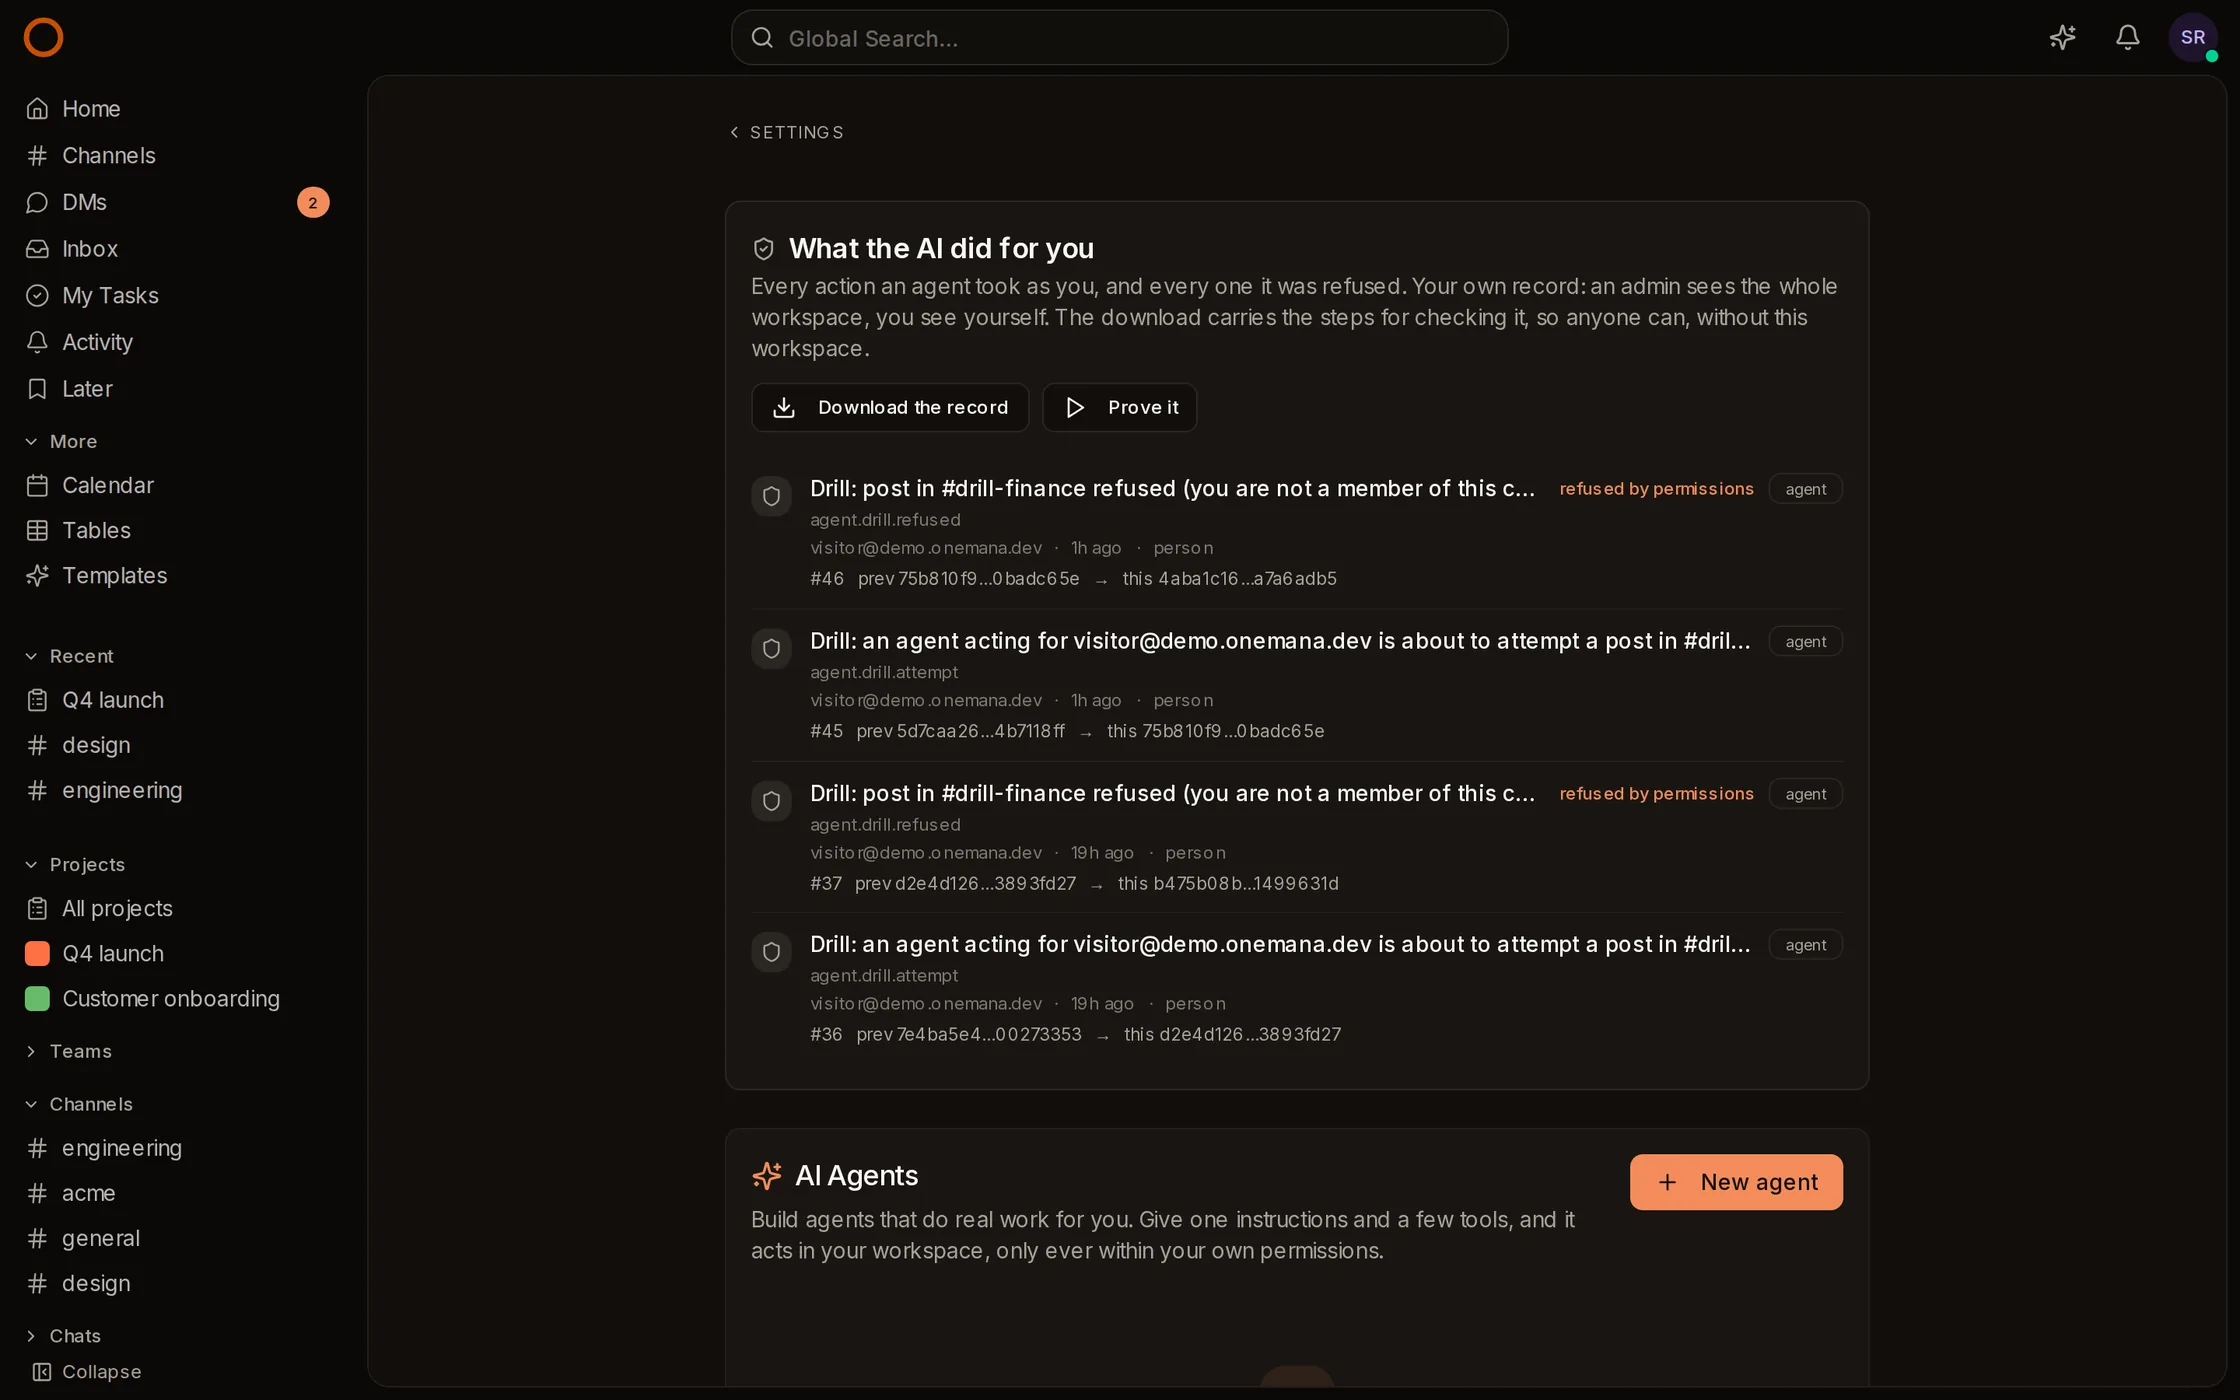
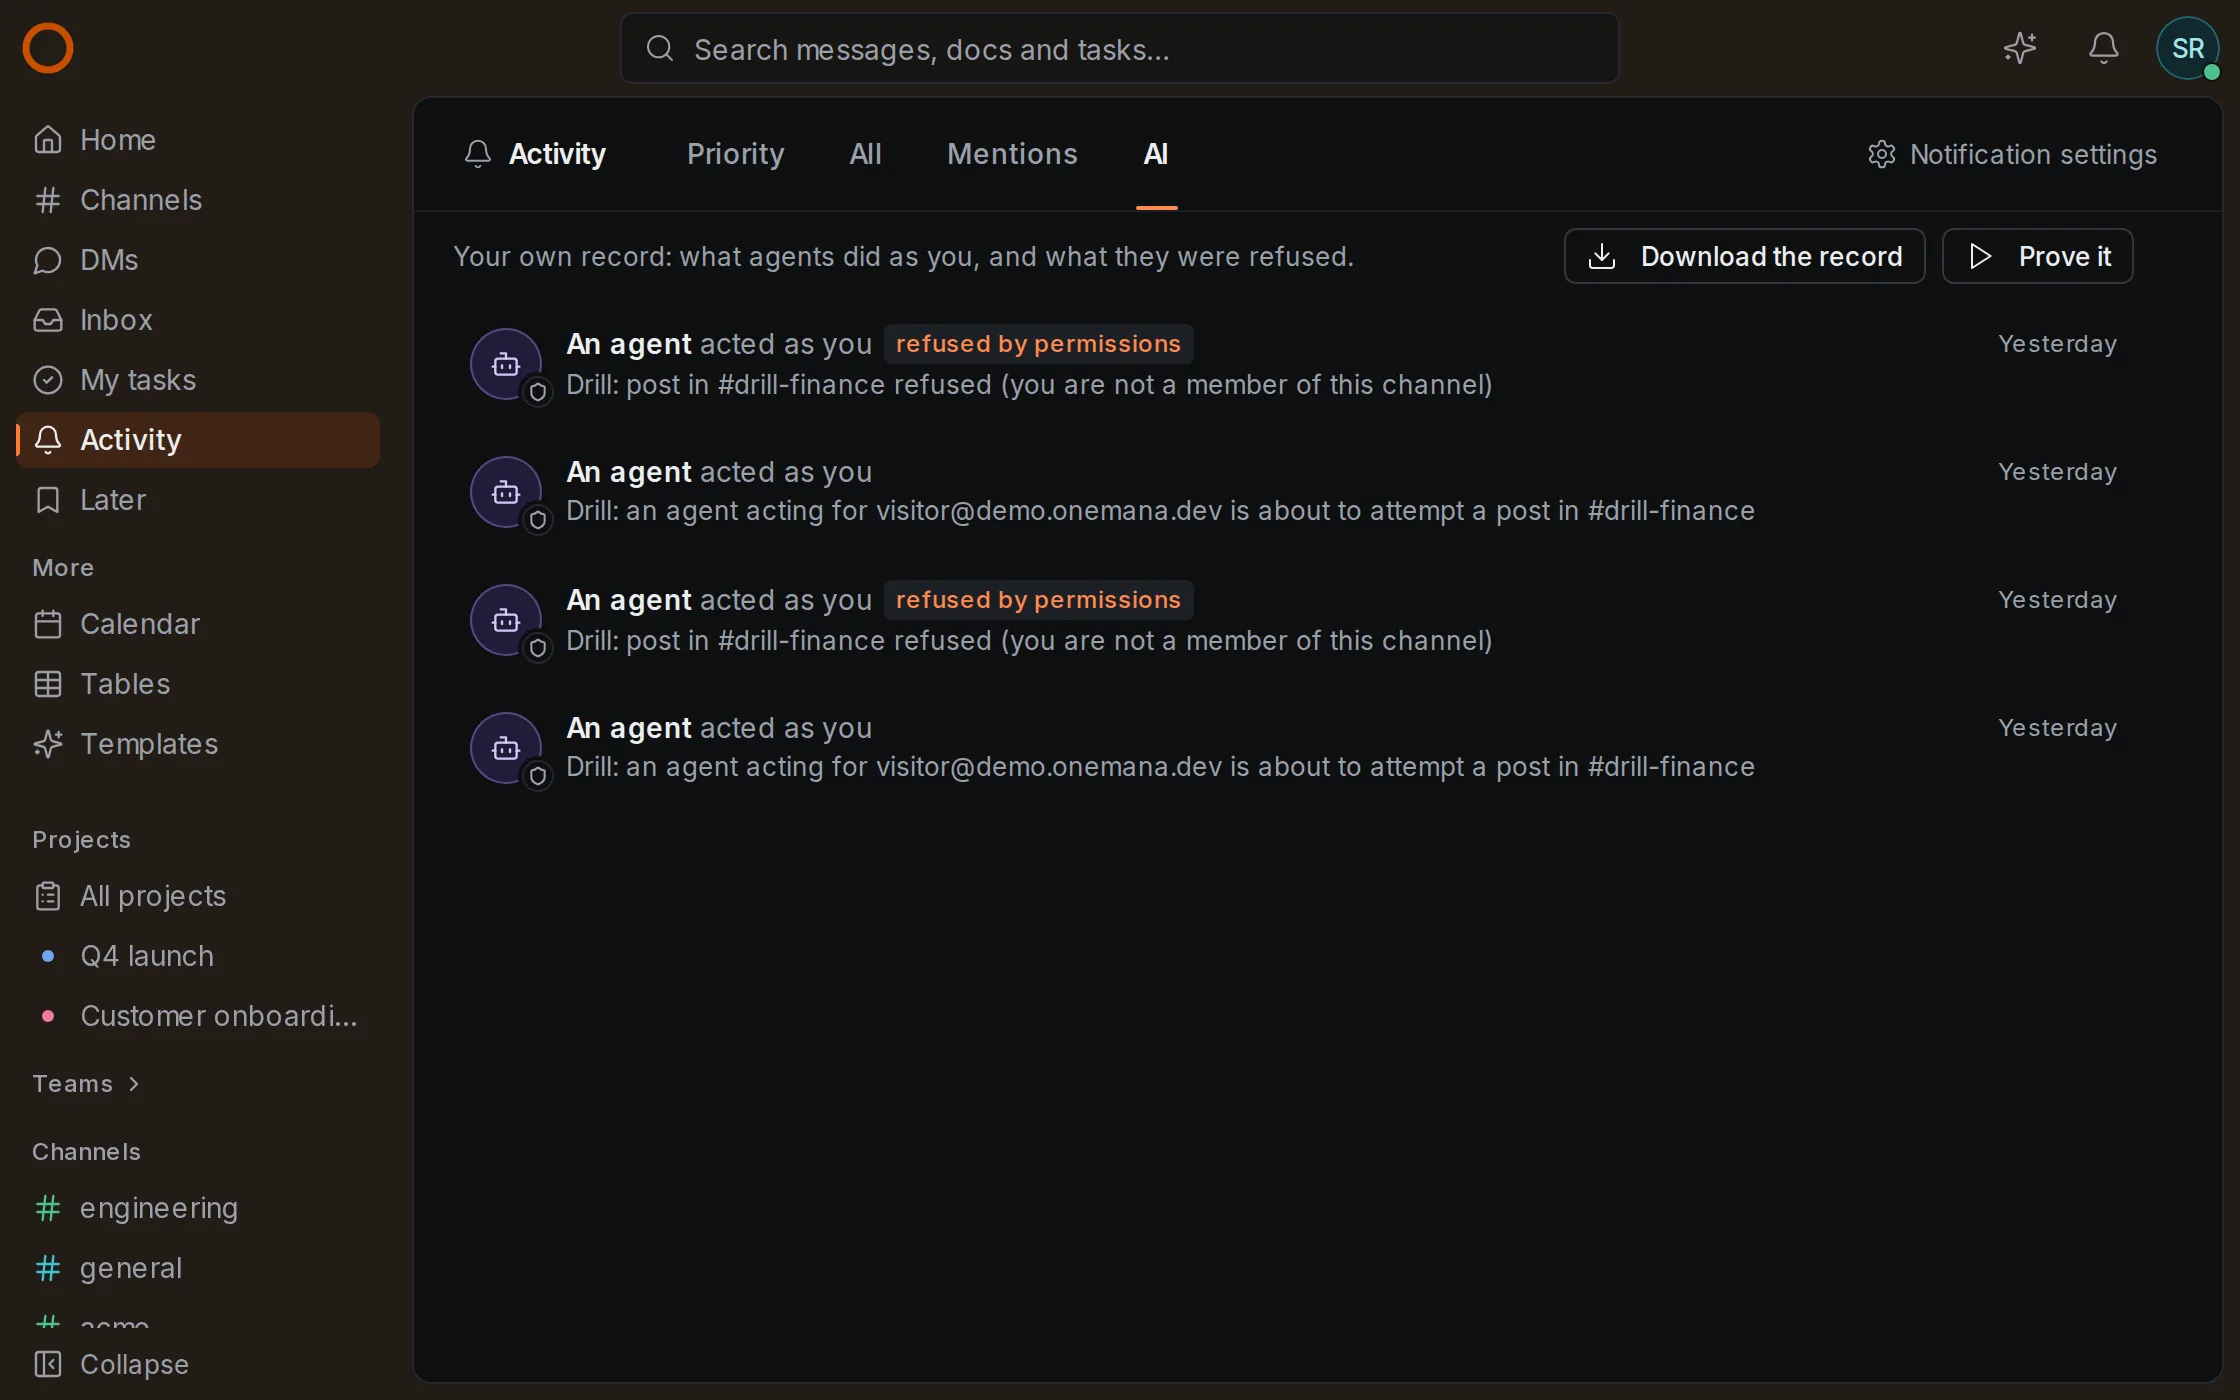
product shots: retaken from the redesigned demo
The site's product pictures showed the app before the playful layer and
its final check. They are retaken from the live demo, read-only, in light
and dark at the same sizes: the channel, a conversation, a doc, the board,
the calendar, the record of what agents did (now Activity's AI tab, whose
alt text says what it shows) and the phone channel.

diff --git a/components/site/ProductTabs.tsx b/components/site/ProductTabs.tsx
@@ -78,7 +78,7 @@ const TABS: Tab[] = [
     hue: "dusk",
     Glyph: SparkGlyph,
     text: "Agents act for a person and can do only what that person can. Every action, and every refusal, is on the record.",
-    alt: "The record of what an agent did: two refused attempts to post in a channel, each with its hash.",
+    alt: "Your record of what agents did as you: two attempts to post in a channel, each refused by permissions.",
     place: "drill",
   },
   {
